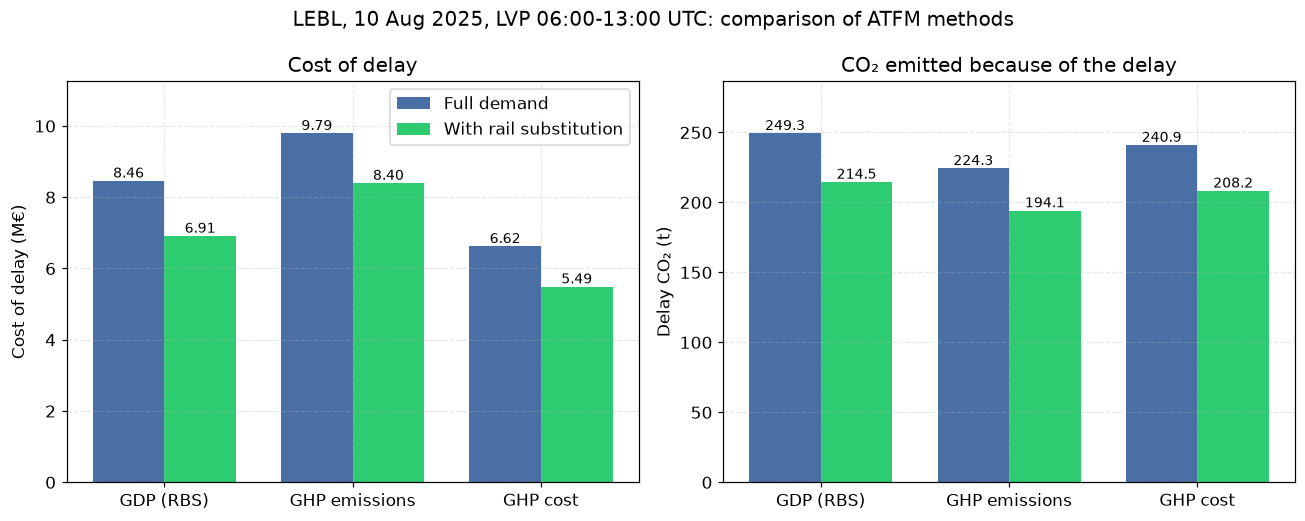
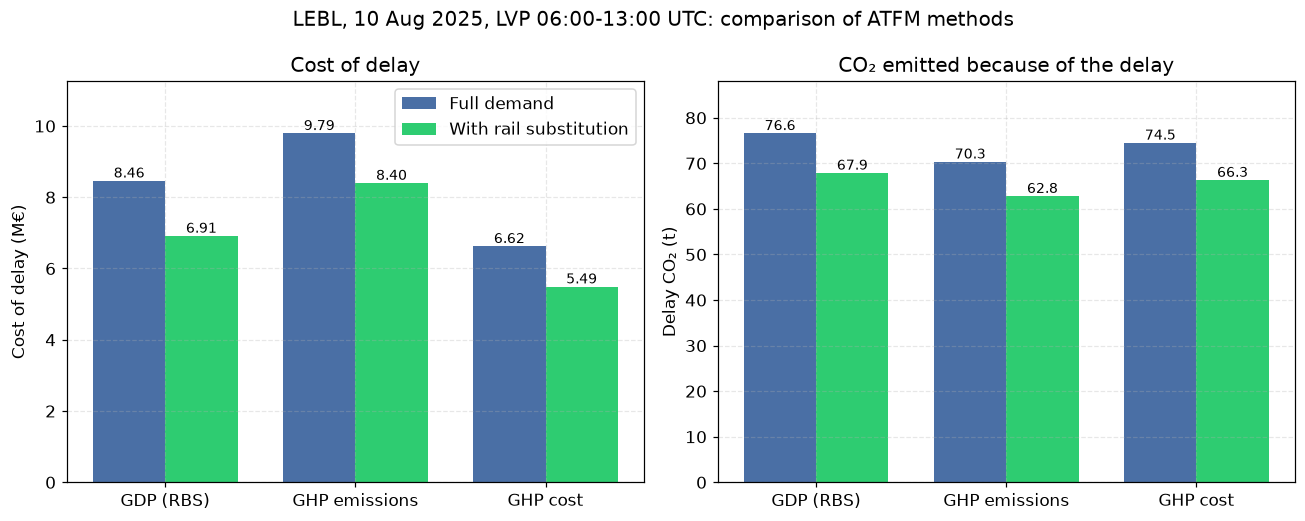
fix(wp2): ground-delay CO2 follows the standard APU time share
APU fuel flow (ICAO Doc 9889, Table 3-A1-6) charged for 25 % of the ground
delay, as in the Cook & Tanner base scenario (0 % / 50 % sensitivity range):
EU stands must offer ground power (AFIR, Art. 12) but its use is not
mandatory, and EU ETS accounting counts APU fuel, not stand electricity.

diff --git a/src/cost_model.py b/src/cost_model.py
@@ -23,18 +23,34 @@ import numpy as np
 import pandas as pd
 
 # CO2 of ground delay (WP2 statement: "look for references for fuel
-# consumption at gate ... one value for each aircraft category", 1 kg of fuel
-# = 3.16 kg of CO2). A flight held at its origin gate keeps its auxiliary
-# power unit (APU) running for air conditioning and power. APU fuel flow in
-# normal running (maximum environmental control system load) by seat group:
-# ICAO Doc 9889, Airport Air Quality Manual, 2nd ed., Table 3-A1-6.
-# Where the table separates older and newer types, the newer value is used.
+# consumption at gate ... one value for each aircraft category"; 1 kg of fuel
+# = 3.16 kg of CO2).
+#
+# A flight held at its origin stand burns fuel only while its auxiliary power
+# unit (APU) runs; the rest of the time it is on the stand's ground power.
+# - EU airports of the TEN-T network must supply electricity at every contact
+#   stand since 31 Dec 2024 and at every remote stand by 31 Dec 2029
+#   (Regulation (EU) 2023/1804, AFIR, Art. 12), but airlines are not obliged
+#   to use it, so APU use does not drop to zero.
+# - Standard practice for the cost of delay in Europe (Cook & Tanner 2015,
+#   the EUROCONTROL reference used for the cost model) charges at-gate APU
+#   fuel for about 25 % of the time in the base scenario, none in the low
+#   scenario and about 50 % in the high scenario. The same shares are used
+#   here (base for every result, low/high as a sensitivity range).
+# - Emissions accounting (EU ETS monitoring, Implementing Regulation (EU)
+#   2018/2066, Art. 52) counts the APU fuel of a flight; the ground-power
+#   electricity belongs to the airport's own footprint, so it is not added.
+#
+# APU fuel flow in normal running (maximum environmental control system load)
+# by seat group: ICAO Doc 9889, Airport Air Quality Manual, 2nd ed., Table
+# 3-A1-6 (newer-type values where the table separates older and newer types).
 APU_FUEL_KG_PER_H = (
     (100, 101.0),           # business and regional jets (seats < 100)
     (200, 110.0),           # 100 <= seats < 200, newer types
     (300, 164.0),           # 200 <= seats < 300
     (float('inf'), 238.0),  # seats >= 300, newer types
 )
+APU_TIME_SHARE = {'low': 0.0, 'base': 0.25, 'high': 0.50}
 CO2_PER_KG_FUEL = 3.16      # IATA Carbon Offset Programme (statement)
 DEFAULT_SEATS = 180
 
@@ -47,9 +63,9 @@ def apu_fuel_kg_per_h(seats) -> np.ndarray:
     return flows[np.searchsorted(limits, s, side='right')]
 
 
-def ground_co2_kg_per_min(seats) -> np.ndarray:
-    """kg of CO2 per minute of ground delay (APU at the origin gate)."""
-    return apu_fuel_kg_per_h(seats) / 60.0 * CO2_PER_KG_FUEL
+def ground_co2_kg_per_min(seats, scenario: str = 'base') -> np.ndarray:
+    """kg of CO2 per minute of ground delay: APU fuel flow x APU time share x 3.16."""
+    return apu_fuel_kg_per_h(seats) / 60.0 * APU_TIME_SHARE[scenario] * CO2_PER_KG_FUEL
 
 
 # On-time performance threshold: a flight is on time when its delay is below

diff --git a/src/main.py b/src/main.py
@@ -17,6 +17,7 @@ import lib_intermodal    as inter
 import lib_sensitivity   as sens
 import lib_visualization as vis
 from config import CFG, FS_CONTROLLED
+from cost_model import ground_co2_kg_per_min
 from lib_gdp_core import newell_minimum_delay
 from lib_ghp_solver import MAX_AIR_DELAY_MIN, run_ghp, cost_model_sensitivity
 from lib_metrics import evaluate_scenario, summary_table
@@ -79,7 +80,10 @@ def main() -> None:
     # air/ground CO2, delayed flights, OTP) and the cancellation exercise.
     wp2_summary = summary_table({'GDP (RBS)': evaluate_scenario(df_rbs, 'GDP (RBS)', h_start_min)},
                                 extras={'HNoReg (min UTC)': {'GDP (RBS)': h_noreg_base},
-                                        'Total delay from the Newell curves (min)': {'GDP (RBS)': round(newell_min, 1)}})
+                                        'Total delay from the Newell curves (min)': {'GDP (RBS)': round(newell_min, 1)},
+                                        'Ground delay CO2, APU never on / on 50 % (kg)': {'GDP (RBS)': '{:,.0f} / {:,.0f}'.format(
+                                            *((ground_co2_kg_per_min(df_rbs['size_seats_avg'], sc) * df_rbs['ground_delay']).sum()
+                                              for sc in ('low', 'high')))}})
     print(wp2_summary.to_string(index=False))
     wp2_cancellations = pd.DataFrame(
         [(k, round(v, 1) if isinstance(v, float) else v) for k, v in results['compression_summary'].items()],

diff --git a/test/test_gdp_core.py b/test/test_gdp_core.py
@@ -181,11 +181,13 @@ def test_unrecoverable_delay_cases():
 
 def test_ground_co2_uses_apu_fuel_at_the_gate():
     # ICAO Doc 9889 Table 3-A1-6, normal running: 110 kg/h for 100-199 seats;
-    # 1 kg of fuel = 3.16 kg of CO2 (statement).
-    apu = 110 / 60 * 3.16
+    # APU on 25 % of the time (Cook & Tanner base); 1 kg fuel = 3.16 kg CO2.
+    apu = 110 / 60 * 0.25 * 3.16
     assert cost_model.ground_co2_kg_per_min([180])[0] == pytest.approx(apu)
     assert cost_model.ground_co2_kg_per_min([80, 250, 400]).tolist() == pytest.approx(
-        [101 / 60 * 3.16, 164 / 60 * 3.16, 238 / 60 * 3.16])
+        [f / 60 * 0.25 * 3.16 for f in (101, 164, 238)])
+    assert cost_model.ground_co2_kg_per_min([180], 'low')[0] == 0
+    assert cost_model.ground_co2_kg_per_min([180], 'high')[0] == pytest.approx(2 * apu)
     df = pd.DataFrame({
         'total_delay': [30.0, 10.0], 'air_delay': [0.0, 10.0], 'ground_delay': [30.0, 0.0],
         'flight_co2_kg': [6000.0, 9000.0], 'block_time_min': [60.0, 90.0],

diff --git a/src/lib_comparison.py b/src/lib_comparison.py
@@ -29,6 +29,7 @@ KPI_TO_KPA = {
     'RSD of ground delay, controlled flights (%)':      'Predictability',
     'Air delay CO2 (kg)':                               'Environment',
     'Ground delay CO2 (kg)':                            'Environment',
+    'Ground delay CO2, APU never on / on 50 % (kg)':    'Environment',
     'Unrecoverable delay (min)':                        'Flexibility',
     'Reactionary delay passed to next rotations (min)': 'Predictability',
     'Flights whose delay propagates':                   'Predictability',

diff --git a/CHANGES.md b/CHANGES.md
@@ -35,7 +35,7 @@ Status legend: ⏳ pending · ✅ fixed
 | C14 | The course asks to "consider a margin (30 min for example) to exempt flights ready to depart at Hfile (already boarded, door closed, etc.)", and WP3 lists "flights ready to depart" among the exempt flights. The delivered code had the option but used 0 min. The margin is now 30 min (`config.READY_MARGIN`). | One more flight is ExemptFlying (360 controlled, 55 exempt); totals change by less than 0.1 %. | ✅ |
 | C15 | The statement notes that an ETD later than the ETA means the flight left the previous day. The "already flying at Hfile" test compared the raw ETD with Hfile, so such a flight would have been treated as controlled. On 10 August all 27 such flights are intercontinental (already exempt), so no result changes, but the rule now follows the statement. | None on this day | ✅ |
 | C16 | The WP2 cost heatmap and the WP2 "do-nothing vs. GDP" figure used flat rates of 100 €/min airborne and 35 €/min on the ground, attributed to Cook & Tanner. Neither value is in that report: its 100 €/min is the network average for *all* ATFM delay, mostly ground delay. WP2 now uses the same cost model as WP3–WP5 (do-nothing: the same delay costed en route). The WP2 cost figures are now consistent with the rest of the project. | WP2 cost-savings heatmap and figure | ✅ |
-| C17 | **CO₂ of ground delay.** The WP2 statement asks to "look for references for fuel consumption at gate ... one value for each aircraft category" and to convert fuel to CO₂ with 3.16 kg/kg. The delivered code assumed every held aircraft runs on fixed electrical ground power, priced with the *Spanish* grid factor. But ground delay is absorbed at the *origin* airport (Paris, London, Frankfurt...), not at Barcelona, and FEGP is not available at every stand. Ground delay now burns APU fuel at the normal-running (maximum air-conditioning) flow of ICAO Doc 9889, *Airport Air Quality Manual*, Table 3-A1-6, by seat group (101 kg/h below 100 seats, 110 kg/h for 100–199, 164 kg/h for 200–299, 238 kg/h from 300), × 3.16. | Ground-delay CO₂ of the GDP 10.6 t → 230 t; delay CO₂ 30.7 t → 249 t. The emissions GHP now has something to optimise: −10 % delay CO₂ (it was −2.3 %). WP2 CO₂ heatmaps and WP4 system CO₂ change accordingly. | ✅ |
+| C17 | **CO₂ of ground delay.** The WP2 statement asks to "look for references for fuel consumption at gate ... one value for each aircraft category" and to convert fuel to CO₂ with 3.16 kg/kg. The delivered code assumed every held aircraft runs only on fixed electrical ground power, priced with the *Spanish* grid factor, although ground delay is absorbed at the *origin* airport (Paris, London, Frankfurt...). The standard references were checked: (1) EU TEN-T airports must supply electricity at every contact stand since 31 Dec 2024 and at every remote stand by 31 Dec 2029 (Regulation (EU) 2023/1804, AFIR, Art. 12), but nothing obliges airlines to use it; (2) the European cost-of-delay reference (Cook & Tanner 2015) charges at-gate APU fuel for about 25 % of the time in its base scenario (0 % low, about 50 % high); (3) emissions accounting (EU ETS monitoring, Implementing Regulation (EU) 2018/2066, Art. 52) counts a flight's APU fuel, while ground-power electricity is part of the airport's footprint. Ground delay therefore burns the APU normal-running fuel flow of ICAO Doc 9889, *Airport Air Quality Manual*, Table 3-A1-6 (101 kg/h below 100 seats, 110 kg/h for 100–199, 164 kg/h for 200–299, 238 kg/h from 300) for 25 % of the time, × 3.16, with 0 % and 50 % as a sensitivity range. | Ground-delay CO₂ of the GDP 10.6 t → 57.6 t (range 0–115 t); delay CO₂ 30.7 t → 76.6 t. The emissions GHP saves 8.2 % of delay CO₂ (it was 2.3 %). WP2 CO₂ heatmaps and WP4 system CO₂ change accordingly. | ✅ |
 | C18 | **Cancellation exercise.** The statement asks that *one airline* "with lots of flights" cancels *all* its flights delayed by more than 2–3 h, then substitution within that airline, then compression. The code cancelled the 12 most delayed controlled flights of any airline (6 of them Vueling) and mixed both steps. Now Vueling (146 controlled flights) cancels its 16 flights delayed by more than 3 h; substitution fills its freed slots with its own later flights in their original order, and compression then passes the remaining slots on (owner first, then earliest ETA). The statement's KPIs are reported: cancelled flights, moves by substitution and by compression, delay saved, and the mean delay of the airline's remaining flights. | Report §penalty: 16 cancelled, 96 substitutions + 95 compression moves, 5,302 min saved; Vueling's remaining flights 92.4 → 60.5 min mean delay. | ✅ |
 | C19 | The WP2 statement lists the KPIs to report: total, maximum and mean air and ground delay, the relative standard deviation of each, air and ground CO₂, delayed flights and OTP. The summary tables lacked the mean and maximum ground delay, both RSDs and the air/ground CO₂ split. The RSDs were also computed over *all* flights, mixing in the zeros of flights that cannot take that kind of delay. They are now computed over exempt flights (air) and controlled flights (ground), and every KPI is in the WP2–WP5 tables. | WP2 tables (e.g. RSD of ground delay 61 %, mean ground delay 98.8 min per controlled flight) | ✅ |
 | C20 | The statement asks for two histograms, arrivals per hour before the regulation (ETA) and after it, as a check of the GDP. The second bar series was drawn from the Newell capacity curve rather than from the allocation; it now counts the CTAs. The slot table also records the airline owning each slot, as the statement's slot matrix does. | WP2 Figure 2 | ✅ |
@@ -92,7 +92,7 @@ equivalents is in the README.
 | OTP, delay < 15 min | 18.8 % | 50.1 % | 24.1 % |
 | Unrecoverable delay (min) | 1,545 | 1,362 | 1,585 |
 | Delay passed on to next rotations (min) | 18,895 | 22,834 | **17,990** |
-| Delay CO₂ (kg) | 249,296 | **224,306** (−10.0 %) | 240,898 |
+| Delay CO₂ (kg) | 76,570 | **70,323** (−8.2 %) | 74,471 |
 | Cost of delay (EUR) | 8.46 M | 9.79 M | **6.62 M** (−21.7 %) |
 | of which reactionary (EUR) | 3.25 M | 3.62 M | 1.65 M |
 | Airline fairness, RSD of top-4 mean delays | **26.8 %** | 86.3 % | 40.9 % |
@@ -122,13 +122,13 @@ times.
 | HNoReg | 19:14 | **18:09** (−65 min) | 19:14 | 18:09 |
 | Affected flights | 415 | 367 | 415 | 367 |
 | Total delay (min) | 35,680 | 30,454 (−14.6 %) | 35,680 | 30,454 |
-| Delay CO₂ (kg) | 249,296 | 214,538 | 240,898 | 208,219 |
+| Delay CO₂ (kg) | 76,570 | 67,881 | 74,471 | 66,301 |
 | Cost of delay (EUR) | 8.46 M | 6.91 M | 6.62 M | **5.49 M** |
 | Airline fairness RSD | 26.8 % | **13.8 %** | 40.9 % | 28.1 % |
-| System CO₂ (t) | 12,259.2 | 12,158.1 | 12,250.8 | 12,151.8 |
+| System CO₂ (t) | 12,086.5 | 12,011.4 | 12,084.4 | 12,009.9 |
 
-The system saves about 101 t of CO₂: 66.4 t direct (104.1 t of flights replaced
-by 37.7 t of rail) and 34.8 t less delay CO₂. Door to door, the train beats
+The system saves about 75 t of CO₂: 66.4 t direct (104.1 t of flights replaced
+by 37.7 t of rail) and 8.7 t less delay CO₂. Door to door, the train beats
 the delayed flight only on Madrid (246 min vs 261 min on average).
 
 ### WP5

diff --git a/README.md b/README.md
@@ -30,7 +30,7 @@ same 35,680 minutes of delay. What changes is **who** absorbs it:
 |---|---|---|---|---|---|
 | Cost of delay | 8.46 M€ | 9.77 M€ | 6.62 M€ | 6.91 M€ | **5.49 M€** |
 | Delay passed on to next rotations | 18,900 min | 21,700 min | 18,000 min | 15,700 min | **15,100 min** |
-| Delay CO₂ | 249 t | **224 t** | 241 t | 215 t | 208 t |
+| Delay CO₂ | 77 t | **70 t** | 74 t | 68 t | 66 t |
 | Max delay | **224 min** | 300 min | 300 min | 213 min | 300 min |
 | Airline fairness (RSD of mean delays) | 27 % | 86 % | 41 % | **14 %** | 28 % |
 | HNoReg | 19:14 | 19:14 | 19:14 | **18:09** | 18:09 |
@@ -42,14 +42,14 @@ same 35,680 minutes of delay. What changes is **who** absorbs it:
   holding first the aircraft whose next departure has slack, which halves the
   reactionary cost. The price is fairness: the optimiser moves delay onto the
   airlines whose flights are cheaper to delay, and up to the 300-min cap on
-  single flights. Minimising CO₂ instead cuts delay CO₂ by 10 % by holding
+  single flights. Minimising CO₂ instead cuts delay CO₂ by 8 % by holding
   the aircraft with the smallest APUs longest, but it costs 16 % *more* than
   RBS and is the least fair allocation: it ignores rotations and airlines.
   Cost and CO₂ are conflicting objectives.
 - **Rail.** 14 regulated flights (Madrid, Alicante, Marseille) have a direct
   high-speed-rail alternative. Replacing them ends the regulation 65 minutes
-  earlier, removes 15 % of the delay and saves about 101 t of CO₂: 66 t
-  directly (flights replaced by rail) and 35 t of delay CO₂. Door to door, the train only beats
+  earlier, removes 15 % of the delay and saves about 75 t of CO₂: 66 t
+  directly (flights replaced by rail) and 9 t of delay CO₂. Door to door, the train only beats
   the *delayed* flight on Madrid.
 
 ![Fairness by airline](docs/figures/wp3_fairness_by_airline.png)
@@ -91,7 +91,7 @@ instances, runs in about 35 s.
 |---|---|---|
 | WP1 — Data | `lib_data_prep.py` | Filter LEBL arrivals, join fleet data (RECAT, seats), great-circle distance and baseline CO₂ ([Montlaur et al., 2025](https://doi.org/10.3390/app15179688)), scheduled turnaround of each aircraft (registration mark) |
 | WP2 — GDP | `lib_gdp_core.py`, `lib_compression.py`, `lib_sensitivity.py` | Newell cumulative curves and H<sub>NoReg</sub>; exemption rules (non-ECAC, flying or ready to depart at H<sub>file</sub>, outside radius); RBS slot allocation; air/ground delay split; unrecoverable delay; cancellations by one airline, substitution and compression with airline slot ownership; radius × file-time sensitivity heatmaps |
-| WP3 — GHP | `lib_ghp_solver.py`, `cost_model.py` | Exact slot assignment minimising delay CO₂ (APU fuel at the gate, ICAO Doc 9889, vs. airborne burn) or delay cost (Cook & Tanner 2015 primary cost + reactionary cost of the delay passed on to the next rotation, scaled by real passengers); cost-model sensitivity; airline fairness |
+| WP3 — GHP | `lib_ghp_solver.py`, `cost_model.py` | Exact slot assignment minimising delay CO₂ (APU fuel at the gate: ICAO Doc 9889 flows, APU on 25 % of the time as in Cook & Tanner, vs. airborne burn) or delay cost (Cook & Tanner 2015 primary cost + reactionary cost of the delay passed on to the next rotation, scaled by real passengers); cost-model sensitivity; airline fairness |
 | WP4 — Intermodality | `lib_intermodal.py`, `lib_wp4_figures.py` | Door-to-door time and CO₂ for regulated flights with a high-speed-rail alternative; GDP and GHP re-run without them |
 | WP5 — Comparison | `lib_metrics.py`, `lib_comparison.py`, `lib_excel_export.py` | One metrics engine for every scenario; final table with KPIs mapped to SESAR KPAs; multi-sheet Excel audit |
 

diff --git a/CREDITS.md b/CREDITS.md
@@ -33,8 +33,10 @@ was published; authorship and dates are unchanged.
   (reactionary delays), cited in the WP3 statement; minimum declared ground
   time of 35 min from the E190 operations-manual summary provided with the
   course material (not redistributed).
-- **APU fuel flow at the gate** — ICAO Doc 9889, *Airport Air Quality
-  Manual*, 2nd edition, Table 3-A1-6.
+- **APU fuel at the gate** — fuel flow from ICAO Doc 9889, *Airport Air
+  Quality Manual*, 2nd edition, Table 3-A1-6; share of APU time from Cook &
+  Tanner (2015); ground-power obligations from Regulation (EU) 2023/1804
+  (AFIR), Art. 12.
 - **Connecting passengers at LEBL** — Cambra de Comerç de Barcelona,
   *Observatori del Transport Aeri* (2025–2026 editions).
 - **Traffic data** — the LEBL arrivals and departures of 10 August 2025 used for every result
